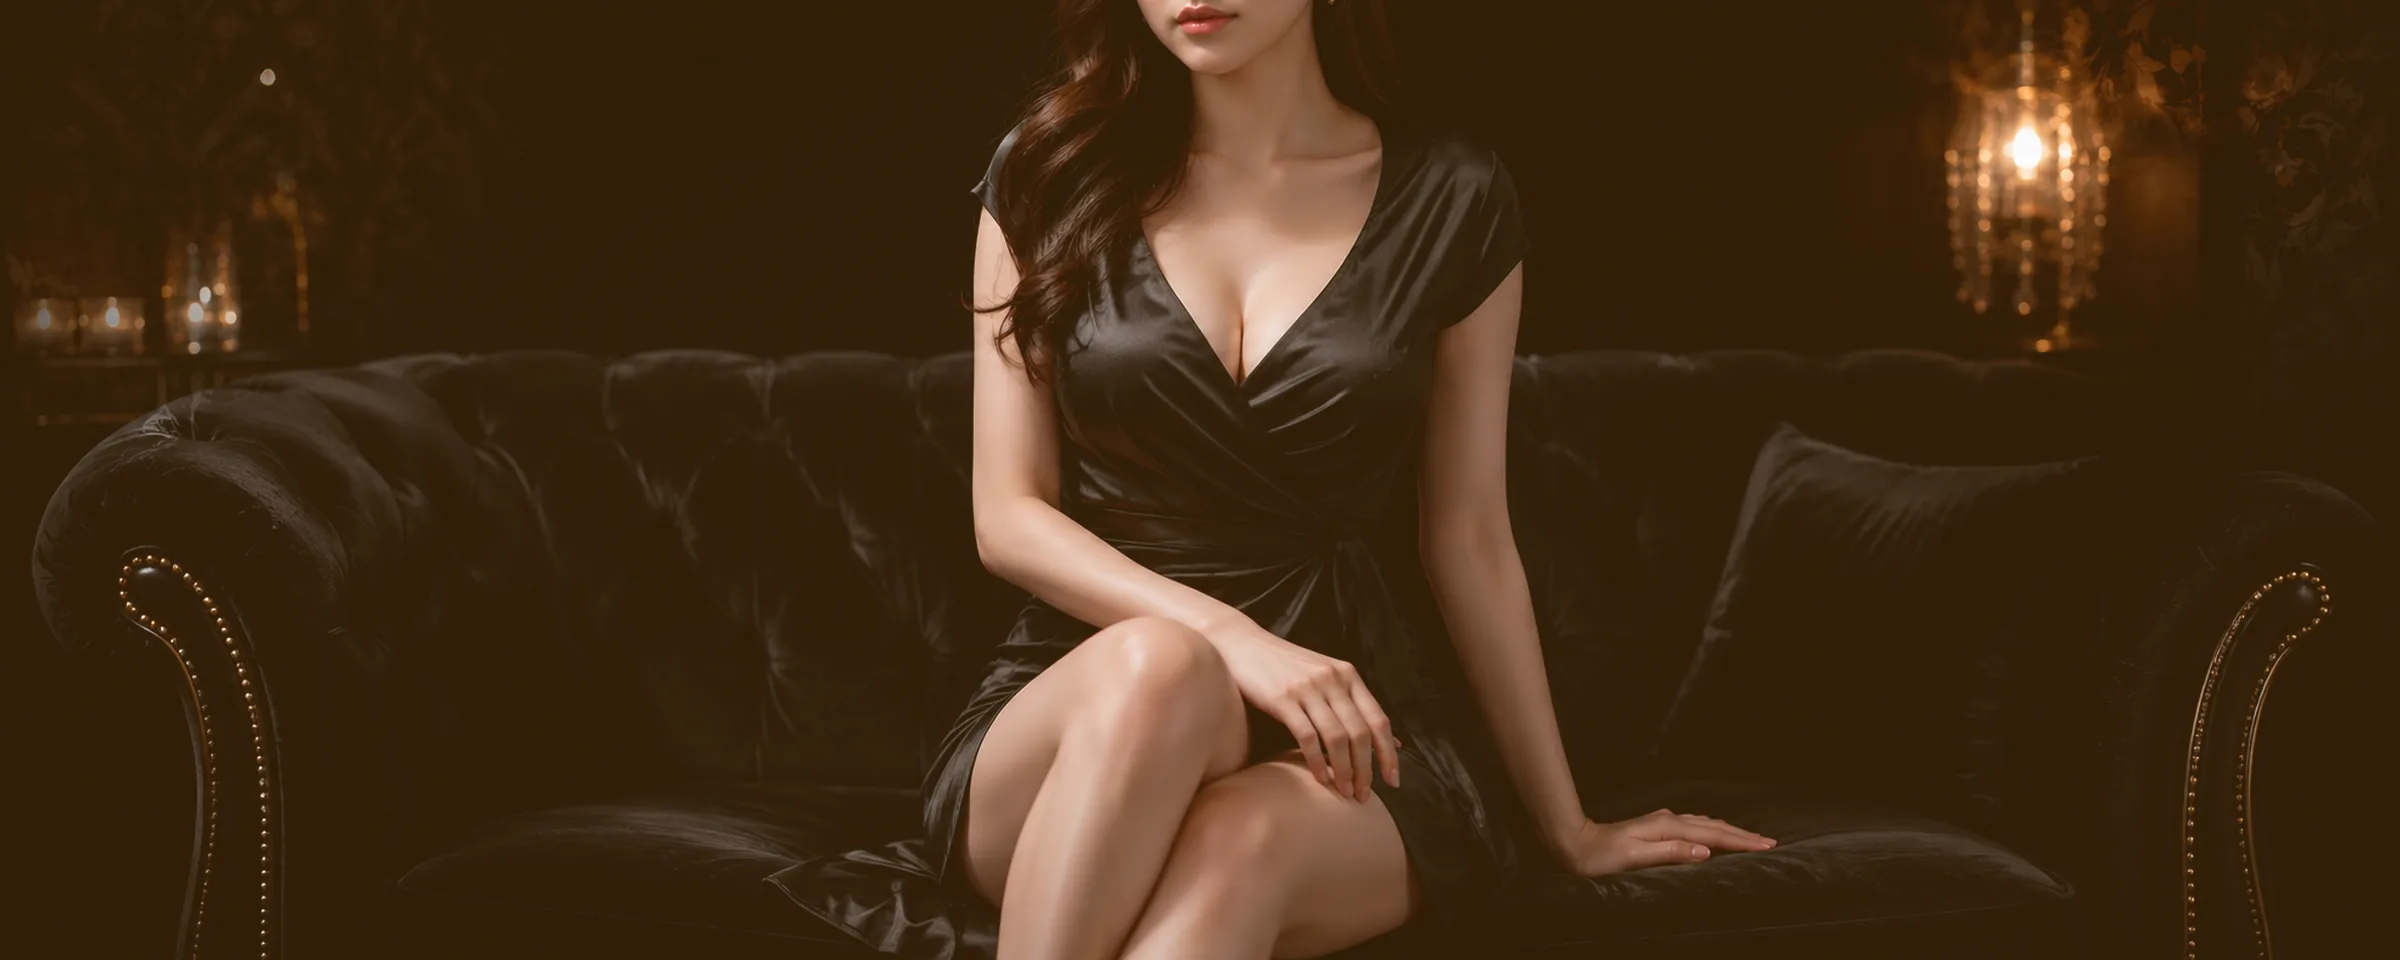
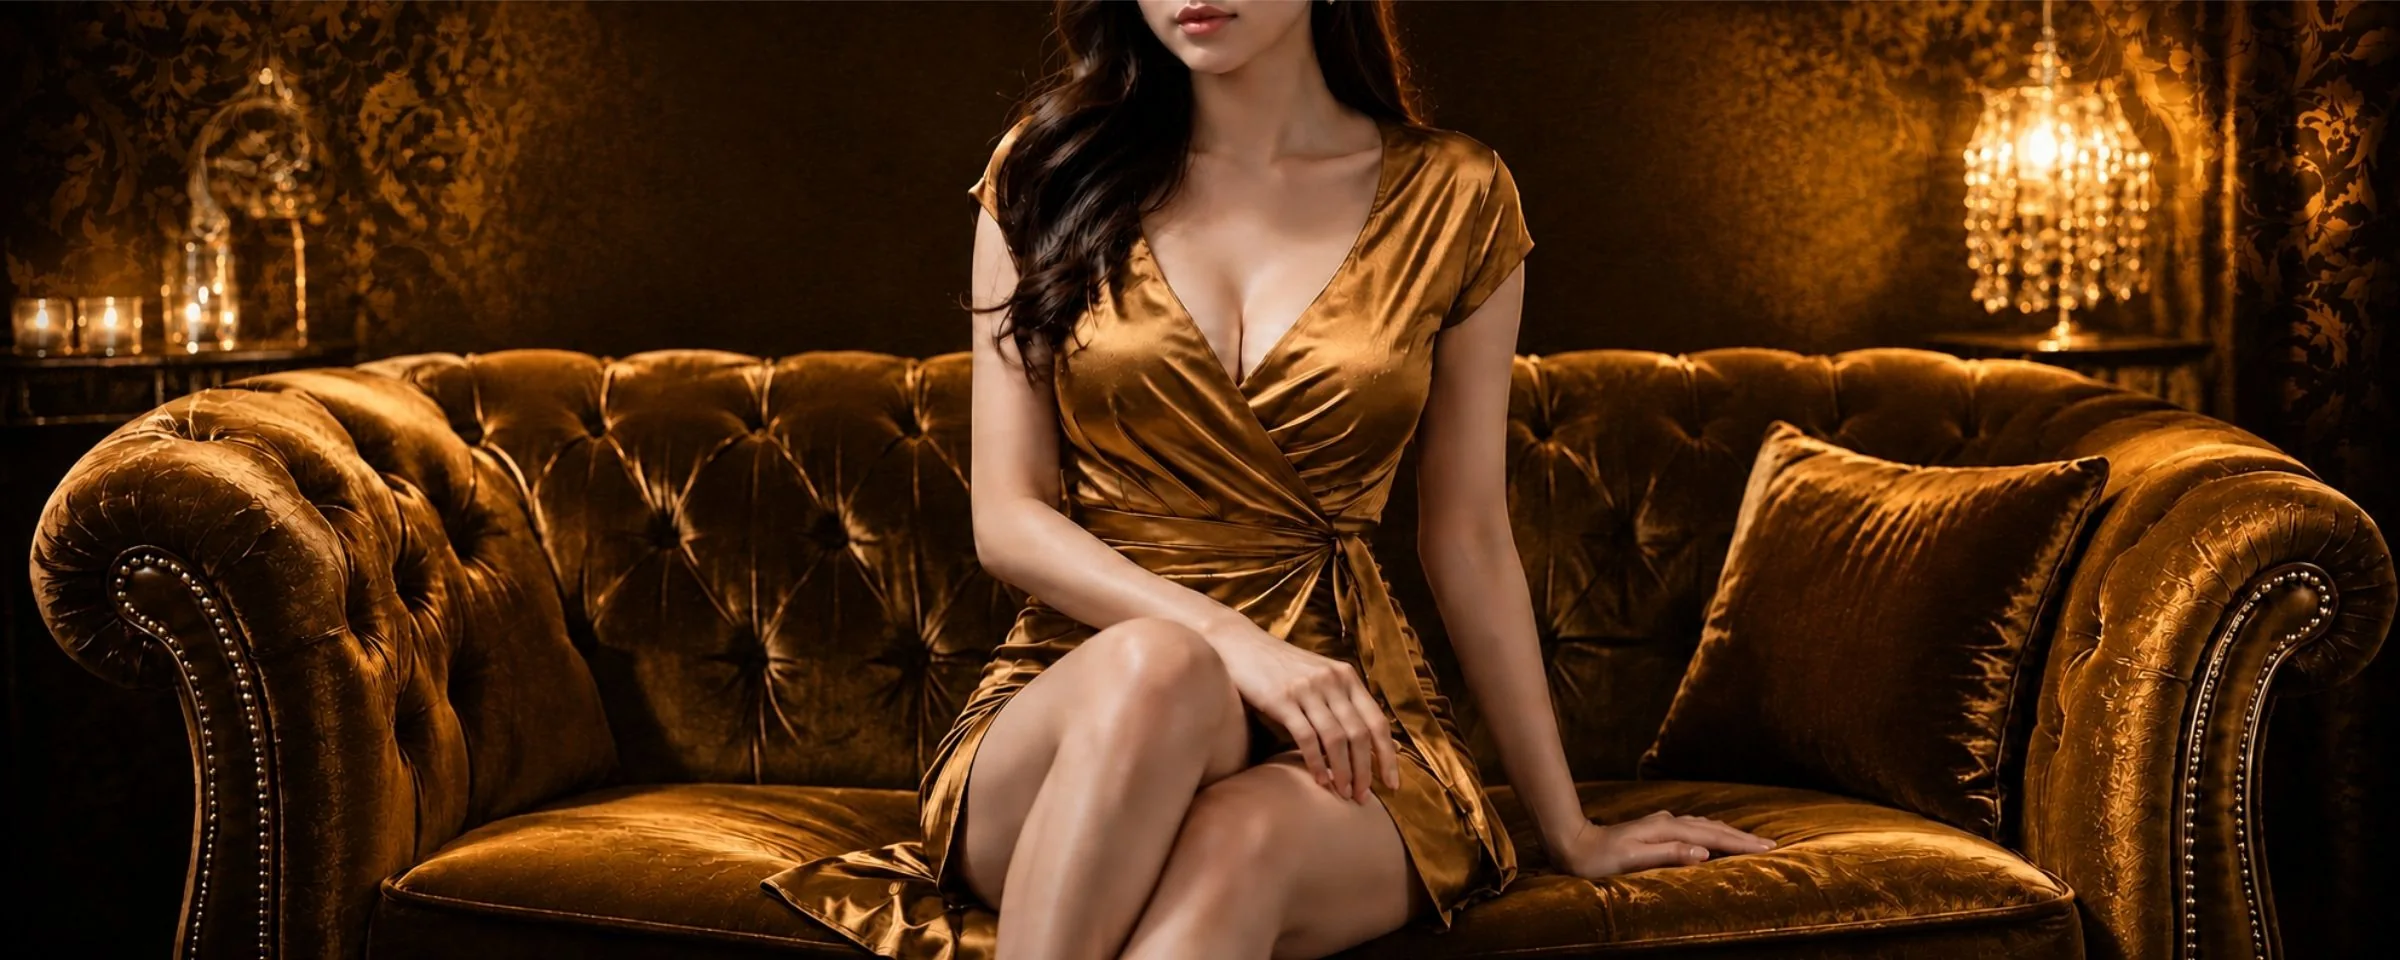
HP: タイプAのキービジュアルを配色ごとの別撮り写真に差し替え

diff --git a/tools-gen-hp-a-kv.py b/tools-gen-hp-a-kv.py
@@ -1,36 +1,43 @@
-"""タイプA（LUXE）の配色別キービジュアルを1枚の元写真から作る（2026-08-12）。
+"""タイプA（LUXE）の配色別キービジュアルを書き出す（2026-08-12）。
 
-    python tools-gen-hp-a-kv.py 元写真.png
+    python tools-gen-hp-a-kv.py            # public/hp-a/ に置いた元写真から作る
+    python tools-gen-hp-a-kv.py 別フォルダ  # 元写真の置き場所を変える
 
-出力（public/hp-a/ 直下）:
+入力（既定は public/hp-a/ 直下・どれも横長の元写真。git には入れない）:
+    黒demo.jpg        → アイボリーブラック（gold）
+    deepmazetop.jpg   → ディープマゼンタ（magenta）
+    rosyennapc.jpg    → ローシェンナ（sienna）
+    a-bantop.jpg      → バーントアンバー（umber）
+
+出力（public/hp-a/ 直下・これだけを git に入れる）:
     hero-pc-{色}.webp   PC用 2400×960
-    hero-sp-{色}.webp   スマホ用 1080×760
+    hero-sp-{色}.webp   スマホ用 1080×760（モデルを中心に縦長で切る）
     thumb-{色}.webp     デザイン一覧のサムネ 640×360
 
-やっていること: 同じ写真の【暗部だけ】に配色の色を差す。
-肌のような明るい所はほぼ元のままなので、色フィルタを掛けたような不自然さが出ない。
-アイボリーブラック（gold）は無加工＝元写真そのもの。
+※ 最初は1枚の写真の暗部に色を差して4色を作っていたが、並べたときの差が弱かったので
+   2026-08-12 に「配色ごとに別撮りの写真」へ切り替えた。色加工はしない＝元写真のまま。
 
-タイプSは別経路（public/hp-s/・HpTemplate の hero-pc{-色}.webp）で同じことをしている。
-配色を足すときは RECIPES に1行足して、hpSite.ts の HP_BUNDLED_HERO_COLORS と
+配色を足すときは SOURCES に1行足して、hpSite.ts の HP_BUNDLED_HERO_COLORS と
 DesignThumb.tsx の HP_THUMB_COLORS にも同じキーを足すこと。
 """
 
 import os
 import sys
 
-from PIL import Image, ImageChops
+from PIL import Image
 
-SRC = sys.argv[1] if len(sys.argv) > 1 else 'kv-a.png'
+DIR = sys.argv[1] if len(sys.argv) > 1 else 'public/hp-a'
 OUT_DIR = 'public/hp-a'
 
-# (暗部に足す色, ガンマ)。ガンマが大きいほど「本当に暗い所」にしか色が乗らない。
-RECIPES = {
-    'gold':    None,                  # アイボリーブラック＝元のまま
-    'magenta': ((48, 3, 17), 2.2),    # ディープマゼンタ＝青みの赤
-    'sienna':  ((48, 29, 7), 2.2),    # ローシェンナ＝黄土
-    'umber':   ((42, 17, 5), 2.2),    # バーントアンバー＝焦げ茶
+SOURCES = {
+    'gold':    '黒demo.jpg',
+    'magenta': 'deepmazetop.jpg',
+    'sienna':  'rosyennapc.jpg',
+    'umber':   'a-bantop.jpg',
 }
+
+# スマホ用を切り出すときの横方向の中心（0=左端・1=右端）。モデルの立ち位置に合わせる。
+SP_FOCUS_X = 0.52
 
 
 def crop_to(im, ratio):
@@ -45,30 +52,21 @@ def crop_to(im, ratio):
     return im.crop((0, y, w, y + nh))
 
 
-def grade(im, tint, gamma):
-    lum = im.convert('L')
-    mask = lum.point(lambda v: int(255 * ((1 - v / 255) ** gamma)))
-    layers = [ImageChops.multiply(Image.new('L', im.size, c), mask) for c in tint]
-    return ImageChops.add(im, Image.merge('RGB', layers))
-
-
 def main():
-    src = Image.open(SRC).convert('RGB')
-    w, h = src.size
-
-    pc = crop_to(src, 2400 / 960).resize((2400, 960), Image.LANCZOS)
-    # スマホ用はモデル（画面中央やや右）を中心に縦長で切る
-    nw = int(h * (1080 / 760))
-    x0 = max(0, min(w - nw, int(w * 0.52) - nw // 2))
-    sp = src.crop((x0, 0, x0 + nw, h)).resize((1080, 760), Image.LANCZOS)
-    th = crop_to(src, 16 / 9).resize((640, 360), Image.LANCZOS)
-
     os.makedirs(OUT_DIR, exist_ok=True)
-    for key, recipe in RECIPES.items():
-        for base, name in ((pc, 'hero-pc'), (sp, 'hero-sp'), (th, 'thumb')):
-            im = base if recipe is None else grade(base, *recipe)
+    for key, filename in SOURCES.items():
+        src = Image.open(os.path.join(DIR, filename)).convert('RGB')
+        w, h = src.size
+
+        pc = crop_to(src, 2400 / 960).resize((2400, 960), Image.LANCZOS)
+        nw = int(h * (1080 / 760))
+        x0 = max(0, min(w - nw, int(w * SP_FOCUS_X) - nw // 2))
+        sp = src.crop((x0, 0, x0 + nw, h)).resize((1080, 760), Image.LANCZOS)
+        th = crop_to(src, 16 / 9).resize((640, 360), Image.LANCZOS)
+
+        for im, name in ((pc, 'hero-pc'), (sp, 'hero-sp'), (th, 'thumb')):
             path = f'{OUT_DIR}/{name}-{key}.webp'
-            im.save(path, 'WEBP', quality=82, method=6)
+            im.save(path, 'WEBP', quality=84, method=6)
             print(path, im.size)
 
 
